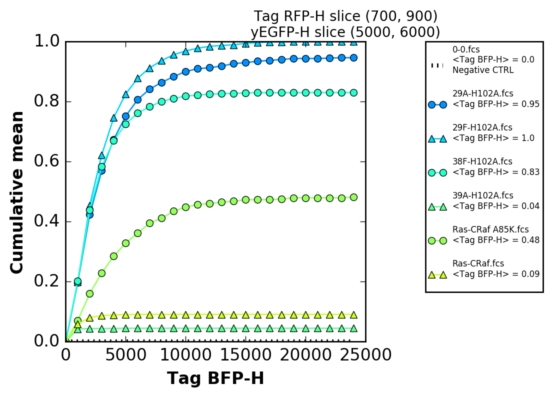
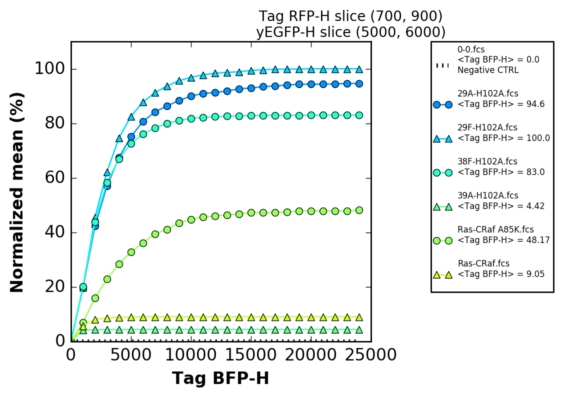
Improve Y scaling in ending window

Changed region(s): [[0.0, 0.0, 1.0, 0.9068], [0.3074, 0.937, 0.4919, 0.9975], [0.2152, 0.0907, 0.2459, 0.1209]]

diff --git a/src/Analysis_QY2H.py b/src/Analysis_QY2H.py
@@ -125,12 +125,12 @@ def main():
 
         for C in Config.fileList:
             lt = len(Samples[(C)]._BFP)
-            Samples[(C)]._BFP = Samples[(C)]._BFP / Standard
+            Samples[(C)]._BFP = 100 * Samples[(C)]._BFP / Standard
 
             lt = len(Samples[(C)]._BFPlins)
-            Samples[(C)]._BFPlins = Samples[(C)]._BFPlins / Standardlins
+            Samples[(C)]._BFPlins = 100 * Samples[(C)]._BFPlins / Standardlins
             lt = len(Samples[(C)]._BFPlin)
-            Samples[(C)]._BFPlin = Samples[(C)]._BFPlin / Standardlin
+            Samples[(C)]._BFPlin = 100 * Samples[(C)]._BFPlin / Standardlin
 
     # Draw the graph with all curves.
     Draw_Cumulative(Config.fileList,

diff --git a/src/utils/Functions.py b/src/utils/Functions.py
@@ -240,15 +240,20 @@ def Draw_Cumulative(Couples_M,
         plt.ylim(ymin=mymin/2)
     else:
         plt.ylim(ymin=0)
+    if Config.stand == 1:
+        plt.ylim(ymax=110)
+        plt.ylabel('Normalized mean (%)',
+                   fontweight='bold',
+                   )
+    else:
+        plt.ylabel('Cumulative mean',
+                   fontweight='bold',
+                   )
 
     plt.xlim(xmin=0)
 
     # Axes label.
     plt.xlabel(BFPchannel,
-               fontweight='bold',
-               )
-
-    plt.ylabel('Cumulative mean',
                fontweight='bold',
                )
 

diff --git a/README.md b/README.md
@@ -181,7 +181,7 @@ The value `BFP bins` corresponds to the number of points you want to be displaye
 
 You can remove the background of the system by selecting `Remove negative Control`. Unchecking this option is useful to monitor the contribution of the background in your experiment. This information is helpful especially for the weakest interactors.
 
-As the sensitivity of the system may vary from one batch of yeast to an other, you can 'normalize' (to 1) the BFP signal using an `Internal Reference`. This will allow you to better compare various experiments. We recommend to use the strongest interaction as Internal Reference.
+As the sensitivity of the system may vary from one batch of yeast to an other, you can 'normalize' (to 100) the BFP signal using an `Internal Reference`. This will allow you to better compare various experiments. We recommend to use the strongest interaction as Internal Reference.
 
 ![Controls](/doc/Select_Controls.jpg)
 
